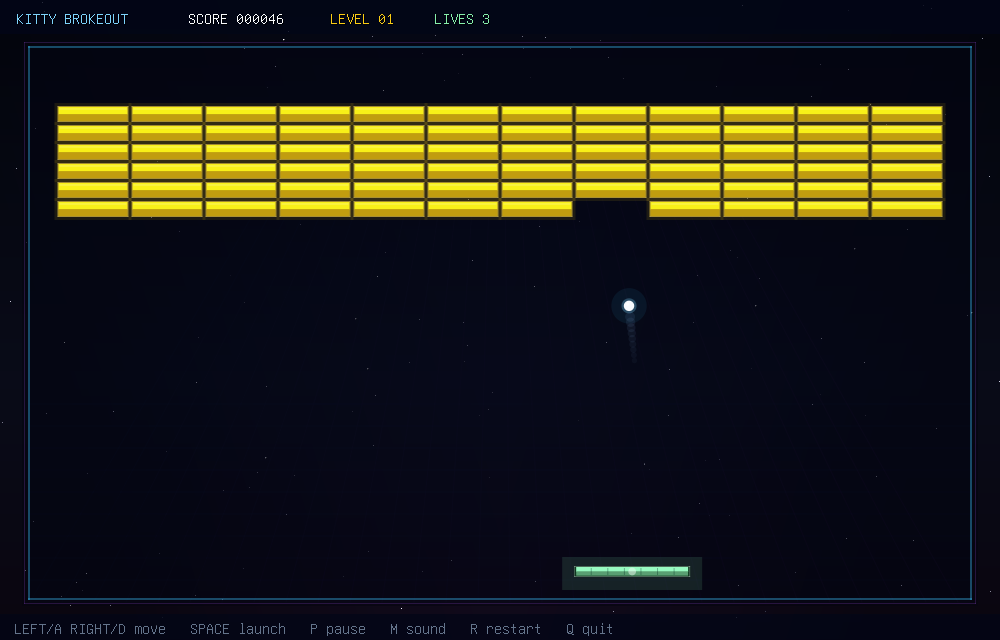
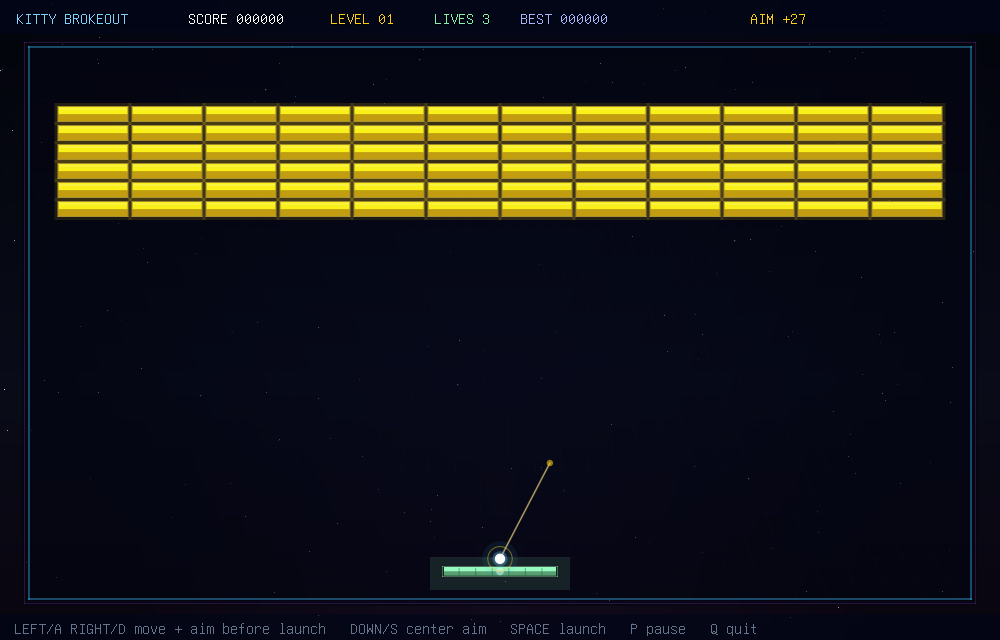
Improve launch control and scoring

diff --git a/src/game.c b/src/game.c
@@ -1,11 +1,14 @@
 /* Game state, physics, collisions, level generation, and input. */
 #include "kitty_brokeout.h"
+#include <errno.h>
 #include <math.h>
 #include <stdio.h>
 #include <stdlib.h>
 #include <string.h>
+#include <sys/stat.h>
 
 #define PI 3.14159265358979323846f
+#define SCORE_PATH_MAX 4096
 
 GameState G;
 
@@ -38,6 +41,70 @@ float frandf(void)
 static float frandr(float lo, float hi)
 {
     return lo + (hi - lo) * frandf();
+}
+
+static bool path_join(char *out, size_t outLen, const char *base, const char *suffix)
+{
+    size_t baseLen = strlen(base);
+    size_t suffixLen = strlen(suffix);
+    if (baseLen + suffixLen + 1 > outLen) return false;
+    memcpy(out, base, baseLen);
+    memcpy(out + baseLen, suffix, suffixLen + 1);
+    return true;
+}
+
+static bool high_score_path(char *path, size_t pathLen, bool create)
+{
+    char dir[SCORE_PATH_MAX];
+    const char *xdg = getenv("XDG_DATA_HOME");
+    if (xdg && *xdg) {
+        if (!path_join(dir, sizeof dir, xdg, "/kitty-brokeout")) return false;
+        if (create) mkdir(xdg, 0700);
+    } else {
+        const char *home = getenv("HOME");
+        if (!home || !*home) return false;
+        char local[SCORE_PATH_MAX], share[SCORE_PATH_MAX];
+        if (!path_join(local, sizeof local, home, "/.local")) return false;
+        if (!path_join(share, sizeof share, local, "/share")) return false;
+        if (!path_join(dir, sizeof dir, share, "/kitty-brokeout")) return false;
+        if (create) {
+            mkdir(local, 0700);
+            mkdir(share, 0700);
+        }
+    }
+    if (create && mkdir(dir, 0700) != 0 && errno != EEXIST) return false;
+    return path_join(path, pathLen, dir, "/highscore");
+}
+
+static void load_high_score(void)
+{
+    char path[SCORE_PATH_MAX];
+    if (!high_score_path(path, sizeof path, false)) return;
+    FILE *f = fopen(path, "r");
+    if (!f) return;
+    int score = 0;
+    if (fscanf(f, "%d", &score) == 1 && score > 0)
+        G.highScore = score;
+    G.savedHighScore = G.highScore;
+    fclose(f);
+}
+
+static void save_high_score(void)
+{
+    if (G.headless || G.highScore <= G.savedHighScore) return;
+    char path[SCORE_PATH_MAX];
+    if (!high_score_path(path, sizeof path, true)) return;
+    FILE *f = fopen(path, "w");
+    if (!f) return;
+    fprintf(f, "%d\n", G.highScore);
+    fclose(f);
+    G.savedHighScore = G.highScore;
+}
+
+static void update_high_score(void)
+{
+    if (G.score > G.highScore)
+        G.highScore = G.score;
 }
 
 static void layout_playfield(void)
@@ -92,6 +159,7 @@ static void clear_dynamic(void)
     G.comboTimer = 0.0f;
     G.stateTimer = 0.0f;
     G.levelTimer = 0.0f;
+    G.launchAngle = 0.0f;
     G.speedBoostTimer = 0.0f;
     G.screenFlash = 0.0f;
     G.cameraShake = 0.0f;
@@ -139,6 +207,7 @@ static void attach_new_ball(void)
 {
     memset(G.balls, 0, sizeof G.balls);
     Ball *b = &G.balls[0];
+    G.launchAngle = 0.0f;
     b->active = true;
     b->attached = true;
     b->radius = fmaxf(3.5f, 5.2f * G.scale);
@@ -151,13 +220,27 @@ static void attach_new_ball(void)
 static void launch_ball(Ball *b)
 {
     if (!b || !b->active || !b->attached) return;
-    float angle = frandr(-0.36f, 0.36f);
+    float angle = clampf(G.launchAngle, -0.82f, 0.82f);
     float speed = game_ball_speed_target();
     b->attached = false;
     b->speed = speed;
     b->vx = sinf(angle) * speed;
     b->vy = -cosf(angle) * speed;
     sound_play(SND_LAUNCH, 0.55f, 0.95f + frandf() * 0.1f);
+}
+
+static bool has_attached_ball(void)
+{
+    for (int i = 0; i < MAX_BALLS; i++)
+        if (G.balls[i].active && G.balls[i].attached)
+            return true;
+    return false;
+}
+
+static void nudge_launch_aim(float delta)
+{
+    if (!has_attached_ball()) return;
+    G.launchAngle = clampf(G.launchAngle + delta, -0.82f, 0.82f);
 }
 
 static uint32_t brick_color(const Brick *b)
@@ -332,6 +415,8 @@ static void complete_level_if_needed(void)
         G.state = GS_LEVEL_CLEAR;
         G.stateTimer = 0.0f;
         G.score += 500 + G.level * 120 + G.lives * 75;
+        update_high_score();
+        save_high_score();
         G.screenFlash = fmaxf(G.screenFlash, 0.9f);
         G.cameraShake = fmaxf(G.cameraShake, 9.0f * G.scale);
         sound_play(SND_CLEAR, 0.8f, 1.0f);
@@ -516,7 +601,8 @@ static void lose_life(void)
     G.cameraShake = fmaxf(G.cameraShake, 5.0f * G.scale);
     if (G.lives <= 0) {
         G.state = GS_GAMEOVER;
-        if (G.score > G.highScore) G.highScore = G.score;
+        update_high_score();
+        save_high_score();
     } else {
         G.state = GS_BALL_LOST;
         attach_new_ball();
@@ -649,6 +735,7 @@ void game_init(int w, int h, uint32_t seed)
     G.soundEnabled = true;
     frand_seed(seed);
     layout_playfield();
+    load_high_score();
 
     G.numStars = MAX_STARS;
     for (int i = 0; i < G.numStars; i++) {
@@ -667,6 +754,8 @@ void game_init(int w, int h, uint32_t seed)
 
 void game_shutdown(void)
 {
+    update_high_score();
+    save_high_score();
 }
 
 void game_tick(void)
@@ -712,6 +801,7 @@ void game_tick(void)
         for (int i = 0; i < MAX_BALLS; i++)
             tick_ball(&G.balls[i]);
         tick_powerups();
+        update_high_score();
 
         if (game_active_ball_count() == 0)
             lose_life();
@@ -735,6 +825,7 @@ static void move_intent(float axis)
     G.paddle.moveAxis = axis;
     G.paddle.intentTimer = 0.135f;
     if (G.state == GS_PLAYING) {
+        nudge_launch_aim(axis * 0.075f);
         for (int i = 0; i < MAX_BALLS; i++) {
             if (G.balls[i].active && G.balls[i].attached) {
                 G.balls[i].x = G.paddle.x + G.paddle.w * 0.5f;
@@ -808,6 +899,7 @@ void game_handle_key(int key)
     if (G.state == GS_PLAYING || G.state == GS_BALL_LOST) {
         if (key == KEY_LEFT || key == 'a') move_intent(-1.0f);
         else if (key == KEY_RIGHT || key == 'd') move_intent(1.0f);
+        else if (key == KEY_DOWN || key == 's') G.launchAngle = 0.0f;
         else if (key == KEY_ENTER || key == ' ' || key == KEY_UP || key == 'w')
             launch_all_attached();
         return;
@@ -874,5 +966,6 @@ void game_force_gameover(void)
     G.state = GS_GAMEOVER;
     G.lives = 0;
     G.stateTimer = 0.0f;
-    if (G.score > G.highScore) G.highScore = G.score;
+    update_high_score();
+    save_high_score();
 }

diff --git a/src/render.c b/src/render.c
@@ -261,6 +261,14 @@ static uint32_t powerup_color(int type)
     return colors[type];
 }
 
+static bool render_has_attached_ball(void)
+{
+    for (int i = 0; i < MAX_BALLS; i++)
+        if (G.balls[i].active && G.balls[i].attached)
+            return true;
+    return false;
+}
+
 static void draw_stars(void)
 {
     float t = G.frameCount / 60.0f;
@@ -393,6 +401,14 @@ static void draw_ball(const Ball *b)
 {
     if (!b->active) return;
     float s = G.scale;
+    if (b->attached) {
+        float len = 108.0f * s;
+        float ex = b->x + sinf(G.launchAngle) * len;
+        float ey = b->y - cosf(G.launchAngle) * len;
+        draw_line(b->x, b->y, ex, ey, 2.0f * s, 0xfacc15, 0.34f);
+        draw_line(b->x, b->y, ex, ey, 1.0f * s, 0xfffbeb, 0.52f);
+        fill_circle(ex, ey, 3.2f * s, 0xfacc15, 0.58f);
+    }
     for (int i = 9; i >= 1; i--) {
         int idx = (b->trailHead + 10 - i) % 10;
         float a = (10 - i) / 10.0f;
@@ -463,17 +479,23 @@ static void draw_hud(void)
     draw_text_shadow(330 * s, 10 * s, buf, 0xfacc15, 1.0f, 1);
     snprintf(buf, sizeof buf, "LIVES %d", G.lives);
     draw_text_shadow(434 * s, 10 * s, buf, G.lives <= 1 ? 0xf87171 : 0x86efac, 1.0f, 1);
+    snprintf(buf, sizeof buf, "BEST %06d", G.highScore);
+    draw_text_shadow(520 * s, 10 * s, buf, 0xa5b4fc, 1.0f, 1);
 
     if (G.combo > 2 && G.comboTimer > 0.0f) {
         snprintf(buf, sizeof buf, "COMBO x%d", G.combo);
         draw_text_shadow(W - 250 * s, 10 * s, buf, 0xf9a8d4, 1.0f, 1);
+    } else if (render_has_attached_ball()) {
+        snprintf(buf, sizeof buf, "AIM %+03d", (int)(G.launchAngle * 180.0f / PI));
+        draw_text_shadow(W - 250 * s, 10 * s, buf, 0xfacc15, 1.0f, 1);
     }
     if (G.speedBoostTimer > 0.0f)
         draw_text_shadow(W - 132 * s, 10 * s, "OVERDRIVE", 0x22d3ee, 1.0f, 1);
 
     fill_rect(0, H - 26 * s, W, 26 * s, 0x020617, 0.70f);
     draw_text(14 * s, H - 20 * s,
-              "LEFT/A RIGHT/D move   SPACE launch   P pause   M sound   R restart   Q quit",
+              W < 850 ? "LEFT/RIGHT move+aim   DOWN center   SPACE launch   P pause   Q quit"
+                      : "LEFT/A RIGHT/D move + aim before launch   DOWN/S center aim   SPACE launch   P pause   Q quit",
               0x64748b, 1.0f, 1);
 }
 
@@ -503,6 +525,11 @@ static void draw_title(void)
     draw_text_center(W * 0.5f, py + 92 * s,
                      "native C brick breaker for kitty graphics terminals",
                      0xa5b4fc, 1.0f, 1);
+    if (G.highScore > 0) {
+        char score[64];
+        snprintf(score, sizeof score, "BEST %06d", G.highScore);
+        draw_text_center(W * 0.5f, py + 112 * s, score, 0xfacc15, 1.0f, 1);
+    }
 
     float bx = px + 95 * s;
     float by = py + 128 * s;
@@ -529,17 +556,18 @@ static void draw_controls(void)
 {
     float s = G.scale;
     float pw = fminf(W - 68 * s, 760 * s);
-    float ph = 348 * s;
+    float ph = 378 * s;
     float px, py;
     panel(pw, ph, &px, &py);
     draw_text_center(W * 0.5f, py + 28 * s, "CONTROLS", 0x7dd3fc, 1.0f, 2);
-    draw_text(px + 74 * s, py + 84 * s,  "LEFT / A       move paddle left", 0xf8fafc, 1.0f, 1);
-    draw_text(px + 74 * s, py + 116 * s, "RIGHT / D      move paddle right", 0xf8fafc, 1.0f, 1);
-    draw_text(px + 74 * s, py + 148 * s, "SPACE / ENTER  launch and advance", 0xf8fafc, 1.0f, 1);
-    draw_text(px + 74 * s, py + 180 * s, "P              pause", 0xf8fafc, 1.0f, 1);
-    draw_text(px + 74 * s, py + 228 * s, "Metal bricks bounce. Purple bricks explode.", 0xa5b4fc, 1.0f, 1);
-    draw_text(px + 74 * s, py + 256 * s, "Cyan bricks trigger overdrive but drop slow capsules.", 0xa5b4fc, 1.0f, 1);
-    draw_text_center(W * 0.5f, py + 314 * s, "ENTER / ESC  BACK", 0x64748b, 1.0f, 1);
+    draw_text(px + 74 * s, py + 82 * s,  "LEFT / A       move paddle left; aim left before launch", 0xf8fafc, 1.0f, 1);
+    draw_text(px + 74 * s, py + 114 * s, "RIGHT / D      move paddle right; aim right before launch", 0xf8fafc, 1.0f, 1);
+    draw_text(px + 74 * s, py + 146 * s, "DOWN / S       center launch aim", 0xf8fafc, 1.0f, 1);
+    draw_text(px + 74 * s, py + 178 * s, "SPACE / ENTER  launch and advance", 0xf8fafc, 1.0f, 1);
+    draw_text(px + 74 * s, py + 210 * s, "P              pause", 0xf8fafc, 1.0f, 1);
+    draw_text(px + 74 * s, py + 258 * s, "Metal bricks bounce. Purple bricks explode.", 0xa5b4fc, 1.0f, 1);
+    draw_text(px + 74 * s, py + 286 * s, "Cyan bricks trigger overdrive but drop slow capsules.", 0xa5b4fc, 1.0f, 1);
+    draw_text_center(W * 0.5f, py + 344 * s, "ENTER / ESC  BACK", 0x64748b, 1.0f, 1);
 }
 
 static void draw_center_message(const char *title, uint32_t titleCol,

diff --git a/src/main.c b/src/main.c
@@ -100,12 +100,17 @@ static int selftest(unsigned seed, int ticks)
 static int render_test(unsigned seed)
 {
     game_init(1000, 640, seed);
+    G.headless = true;
     render_init(G.W, G.H);
 
     render_frame();
     dump_ppm("render_title.ppm");
 
     game_start_run();
+    G.launchAngle = 0.48f;
+    render_frame();
+    dump_ppm("render_ready.ppm");
+
     for (int i = 0; i < 180; i++) {
         game_autopilot_tick();
         game_tick();

diff --git a/src/kitty_brokeout.h b/src/kitty_brokeout.h
@@ -124,11 +124,12 @@ typedef struct {
     Star stars[MAX_STARS];
     int numBricks, numStars;
 
-    int score, highScore, level, lives;
+    int score, highScore, savedHighScore, level, lives;
     int combo;
     float comboTimer;
     float stateTimer;
     float levelTimer;
+    float launchAngle;
     float speedBoostTimer;
     float screenFlash;
     float cameraShake;

diff --git a/README.md b/README.md
@@ -17,6 +17,8 @@ level progression, procedural sound, and headless test modes.
 - Fixed-timestep gameplay with substepped ball collisions
 - Multi-hit, metal, explosive, and speed bricks
 - Wide paddle, slow, multiball, and shield capsules
+- Aimed launch with a visible guide line
+- Persistent local best score
 - Particles, ball trails, screen flash, and screen shake
 - Procedural sound through `pacat`, `pw-play`, `aplay`, or sox `play`
 - Deterministic selftests and render tests for CI
@@ -38,8 +40,9 @@ sox `play`. If none exists, the game runs silently.
 
 | Key | Action |
 |-----|--------|
-| Left / A | move paddle left |
-| Right / D | move paddle right |
+| Left / A | move paddle left; aim left before launch |
+| Right / D | move paddle right; aim right before launch |
+| Down / S | center launch aim |
 | Space / Enter / Up / W | launch ball, advance screens |
 | P | pause |
 | M | toggle sound |
@@ -57,8 +60,8 @@ make test
 ./kitty-brokeout --sound-test
 ```
 
-`--render-test` writes PPM screenshots for title, gameplay, level clear, and
-game-over states without needing an interactive terminal.
+`--render-test` writes PPM screenshots for title, ready/aim, gameplay, level
+clear, and game-over states without needing an interactive terminal.
 
 ## Architecture
 